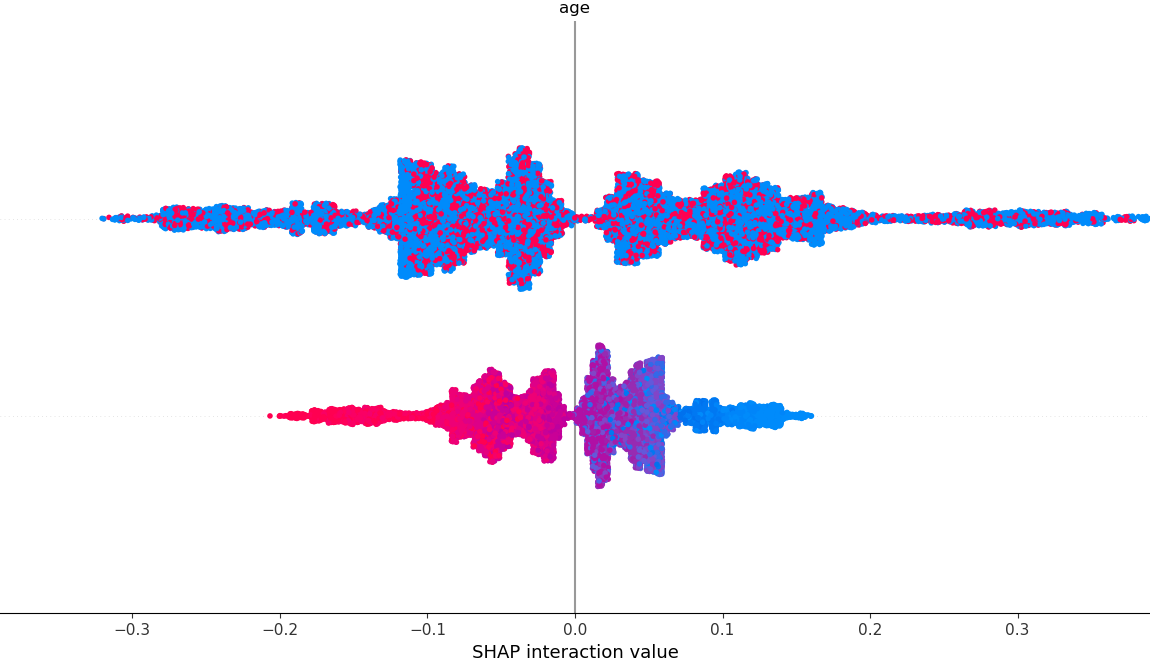
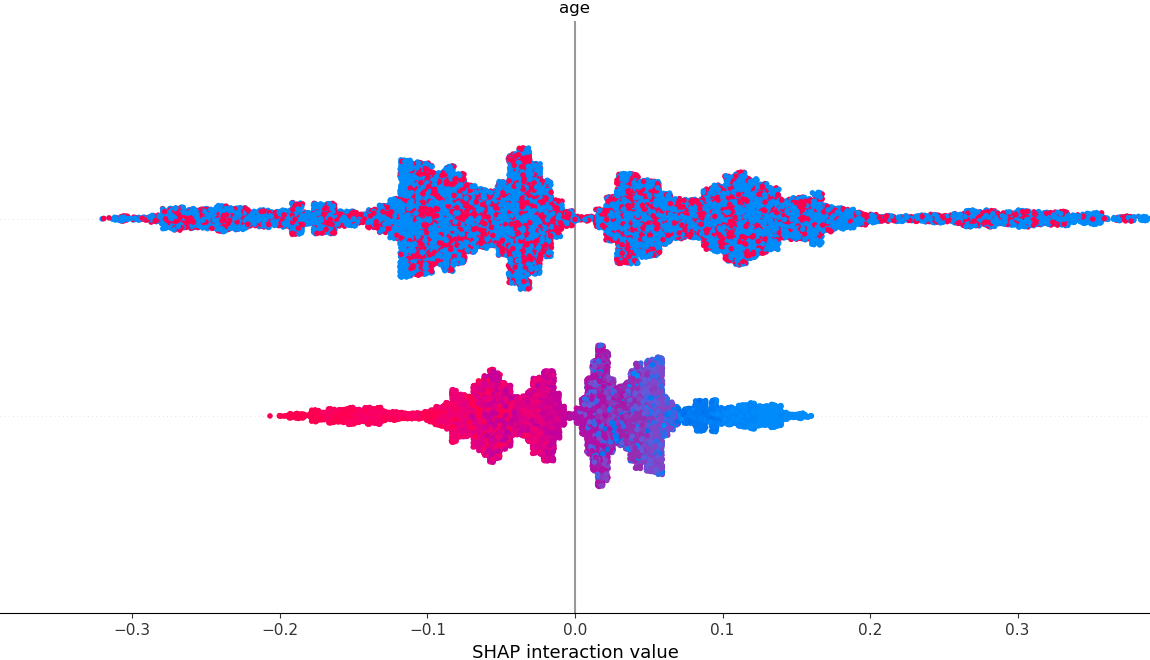
fix codebase

Changed region(s): [[0.0913, 0.2121, 1.0, 0.4545], [0.3652, 0.5152, 0.6087, 0.7576]]

diff --git a/app.py b/app.py
@@ -45,23 +45,84 @@ with tab2:
     prediction = model.predict(input_data)
     st.write(f"Predictions: {'Cardiovascular Disease' if prediction[0] == 1 else 'No Cardiovascular Disease'}")
 
+    # Create SHAP explainer
     explainer = shap.Explainer(model)
+    
+    # Get SHAP values for the input
     shap_values = explainer(input_data)
 
-    # Convert SHAP values to NumPy array and extract first instance
-    shap_values_array = np.array(shap_values.values)[0]
-
-    # Convert input data to a 1D NumPy array
-    input_data_array = np.array(input_data.iloc[0])
-
-    # Ensure expected_value is a scalar
-    expected_value = explainer.expected_value
-    if isinstance(expected_value, (list, np.ndarray)):
-        expected_value = expected_value[0]
-
-    # Generate SHAP force plot
-    force_plot_html = shap.force_plot(expected_value, shap_values_array, input_data_array, matplotlib=False)
-
-    # Render SHAP force plot in Streamlit using HTML
-    components.html(shap.getjs(), height=0)  # Ensure SHAP JS loads
-    components.html(force_plot_html.html(), height=300)
+    # Create a bar plot of feature importance
+    st.subheader("Feature Impact Magnitude")
+    
+    # Get absolute SHAP values (magnitude of impact)
+    feature_importance = np.abs(shap_values.values).mean(0)
+    if len(feature_importance.shape) > 1:
+        feature_importance = feature_importance.mean(1)
+    
+    # Create a DataFrame for plotting
+    importance_df = pd.DataFrame({
+        'Feature': input_data.columns,
+        'Importance': feature_importance
+    }).sort_values('Importance', ascending=False)
+    
+    # Plot with matplotlib
+    fig, ax = plt.subplots(figsize=(10, 6))
+    bars = ax.barh(importance_df['Feature'], importance_df['Importance'])
+    ax.set_xlabel('Mean |SHAP Value|')
+    ax.set_title('Feature Importance')
+    
+    # Add value labels to the bars
+    for bar in bars:
+        width = bar.get_width()
+        label_x_pos = width * 1.01
+        ax.text(label_x_pos, bar.get_y() + bar.get_height()/2, f'{width:.4f}', 
+                va='center')
+    
+    plt.tight_layout()
+    st.pyplot(fig)
+    
+    # For the individual prediction explanation, use a waterfall plot with matplotlib
+    st.subheader("Explanation for Current Prediction")
+    
+    try:
+        # Get the SHAP values for the first instance
+        instance_shap_values = shap_values.values[0]
+        
+        # If SHAP values have 2 dimensions (for binary classification), 
+        # take the values for the positive class (usually index 1)
+        if len(instance_shap_values.shape) > 1 and instance_shap_values.shape[1] == 2:
+            # Use values for the positive class (index 1)
+            instance_shap_values = instance_shap_values[:, 1]
+        elif len(instance_shap_values.shape) > 1:
+            # If the shape is not exactly what we expect, just use the first row
+            instance_shap_values = instance_shap_values[:, 0]
+        
+        # Get feature importance ranking
+        sorted_idx = np.argsort(np.abs(instance_shap_values))
+        sorted_features = np.array(input_data.columns)[sorted_idx]
+        sorted_values = instance_shap_values[sorted_idx]
+        
+        # Plot top contributing features
+        fig, ax = plt.subplots(figsize=(10, 6))
+        colors = ['red' if x < 0 else 'green' for x in sorted_values]
+        y_pos = np.arange(len(sorted_features))
+        ax.barh(y_pos, sorted_values, color=colors)
+        ax.set_yticks(y_pos)
+        ax.set_yticklabels(sorted_features)
+        ax.set_xlabel('SHAP Value (Impact on Prediction)')
+        ax.set_title('Feature Contributions to Current Prediction')
+        
+        # Add a vertical line at x=0
+        ax.axvline(x=0, color='black', linestyle='-', alpha=0.3)
+        
+        # Add a legend
+        import matplotlib.patches as mpatches
+        red_patch = mpatches.Patch(color='red', label='Decreases prediction')
+        green_patch = mpatches.Patch(color='green', label='Increases prediction')
+        ax.legend(handles=[red_patch, green_patch])
+        
+        plt.tight_layout()
+        st.pyplot(fig)
+        
+    except Exception as e:
+        st.error(f"Error generating feature contribution plot: {str(e)}")

diff --git a/src/model_explainability.py b/src/model_explainability.py
@@ -1,4 +1,5 @@
 import pandas as pd
+import numpy as np 
 import shap
 import joblib
 import matplotlib.pyplot as plt 
@@ -22,7 +23,39 @@ def explain_model(model: RandomForestClassifier, X_test: pd.DataFrame) -> str:
     explainer = shap.Explainer(model)
     shap_values = explainer(X_test)
 
-    plt.savefig("models/shap_summary.png")
+
+    # Plot SHAP Summary (Overall Feature Importance)
+    plt.figure()
+    shap.summary_plot(shap_values, X_test, show=False)
+    summary_plot_path = "models/shap_summary.png"
+    plt.savefig(summary_plot_path)
+    plt.close()
+
+    # Compute SHAP Interaction Values
+    shap_interaction_values = explainer.shap_interaction_values(X_test)
+
+    # Find Top 5 Features
+    interaction_values = np.abs(shap_interaction_values).mean(axis=0)
+    top_features_idx = np.argsort(interaction_values.sum(axis=1))[::-1][:5]  
+    feature_names = X_test.columns
+    top_features = feature_names[top_features_idx]
+
+    print(f"Top 5 most important features: {list(top_features)}")
+
+    # Plot Feature Interactions (Age vs Other Features)
+    plt.figure()
+    shap.dependence_plot(
+        top_features[0], shap_values.values, X_test, interaction_index=top_features[1]
+    )
+    interaction_plot_path = "models/shap_interaction.png"
+    plt.savefig(interaction_plot_path)
+    plt.close()
+
+    print(f"SHAP summary plot saved at: {summary_plot_path}")
+    print(f"Feature interaction plot saved at: {interaction_plot_path}")
+
+    return summary_plot_path, interaction_plot_path
+
 
 
 if __name__ == "__main__":
